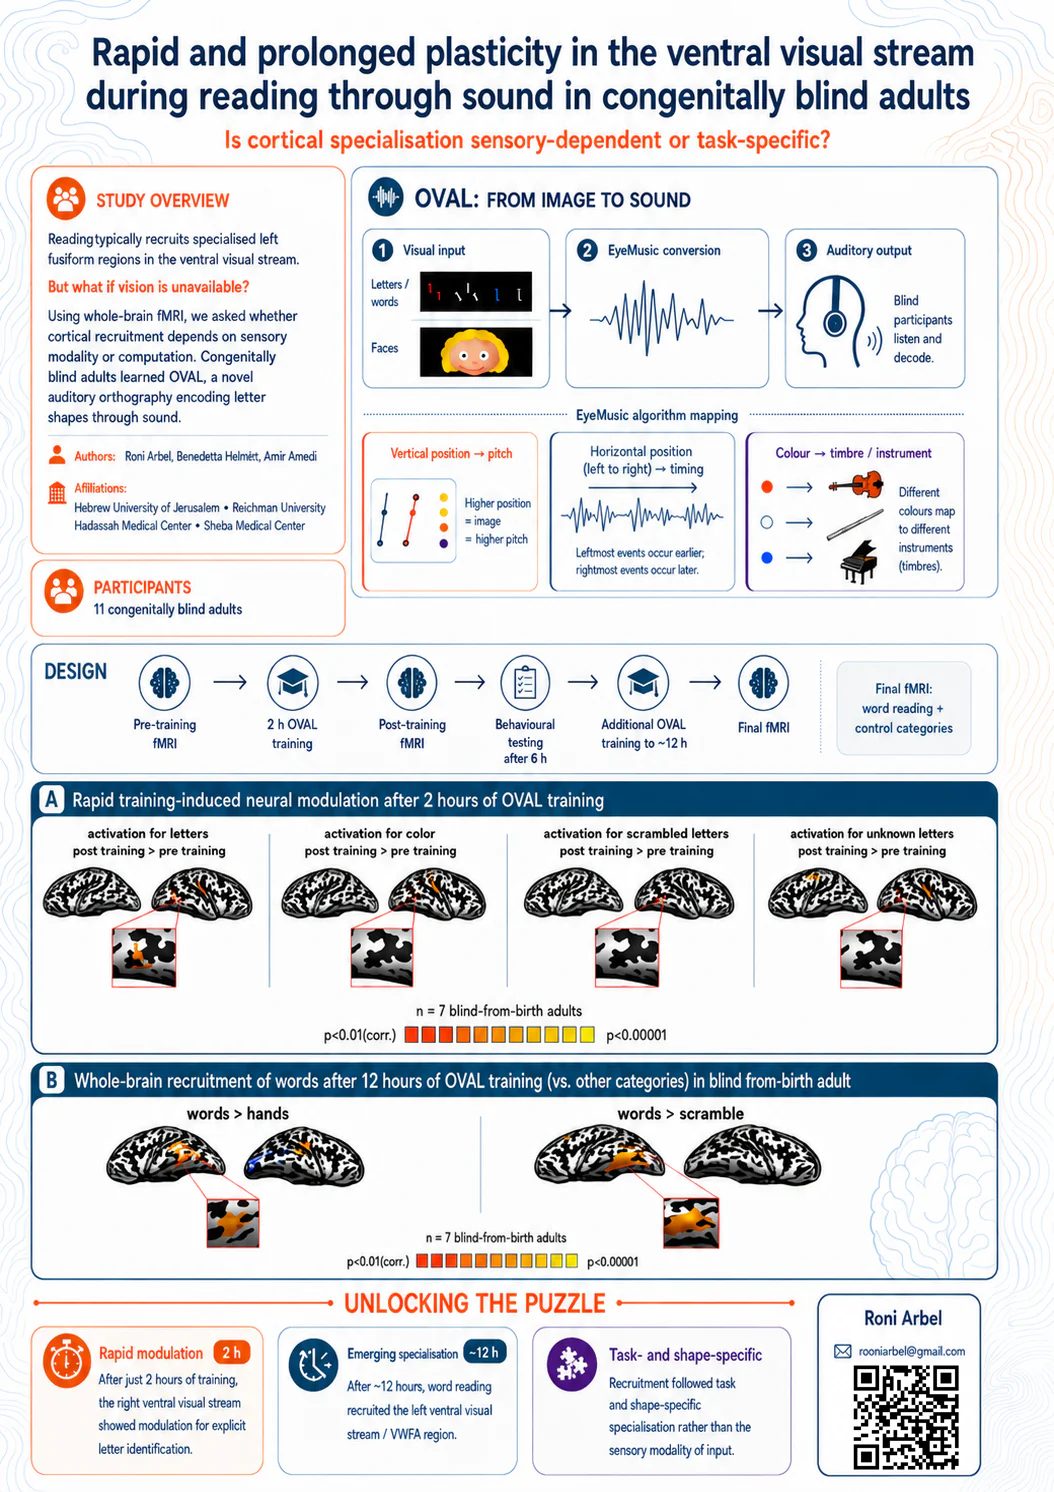
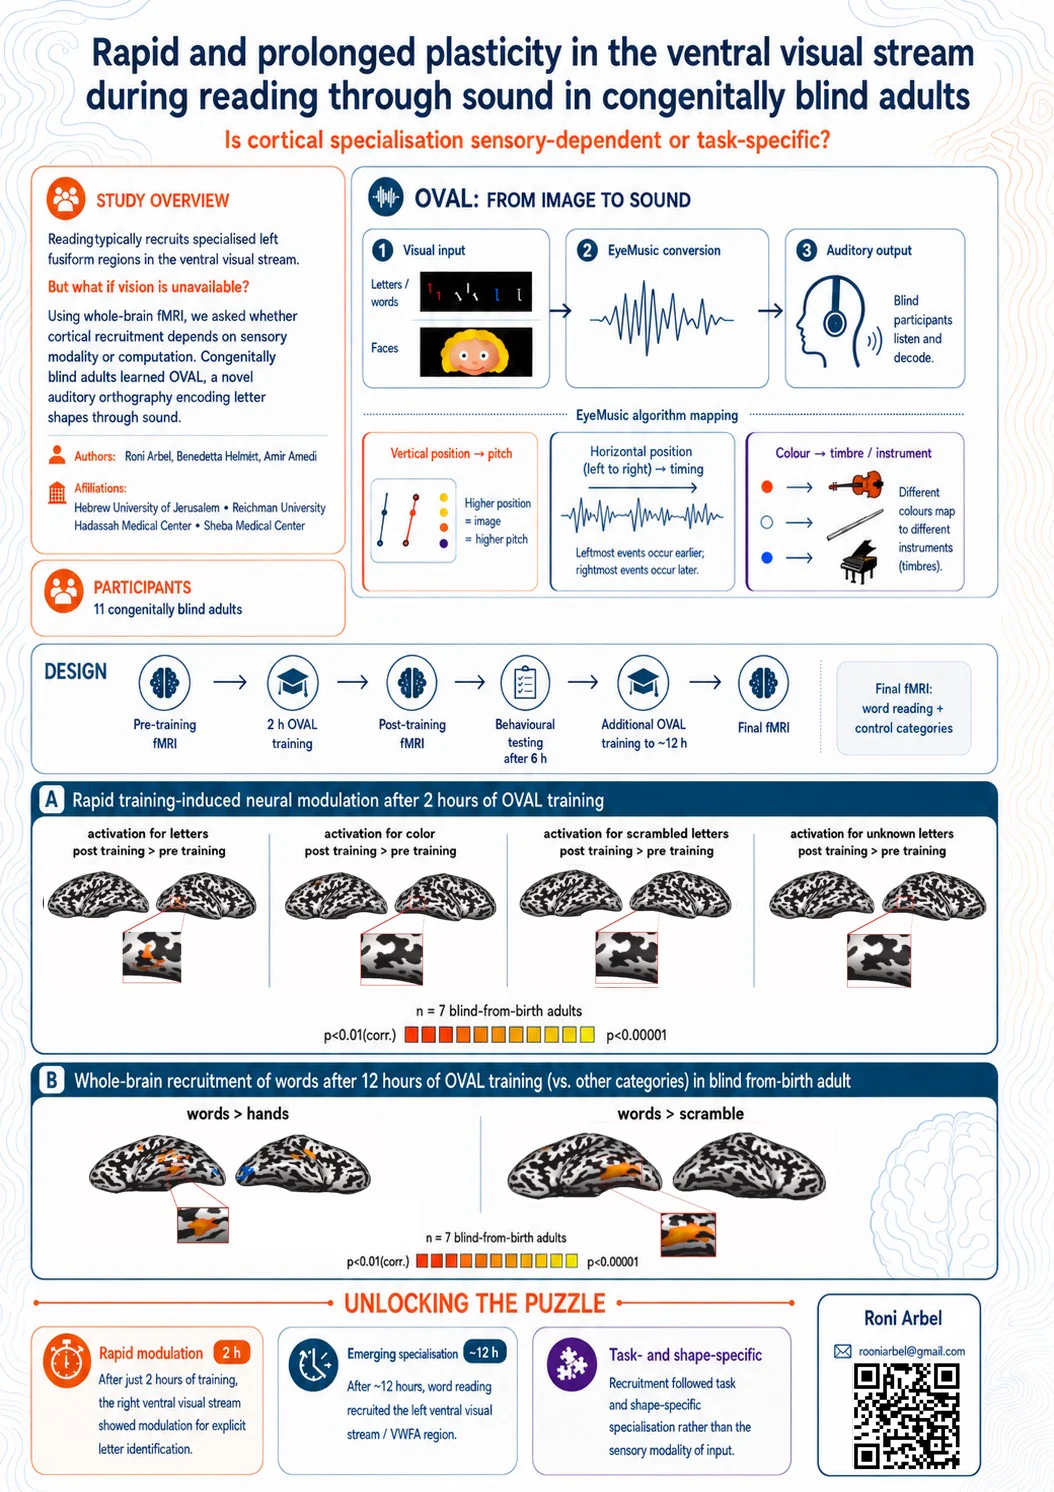
Update the ASDP poster to the latest figures
The brain renders in panels A and B are re-rendered; every line of text on the
poster, the participant counts and the conclusions are unchanged, so the page
around it still reads true.

The new export is a JPEG, so the full-size copy is served as one at 480KB
instead of re-encoding it into a 1.8MB PNG that could hold no more detail.

Drops the claim that the QR code carries contact details. It encodes a link to
the OVAL player, not an address.

diff --git a/asdp-2026/index.html b/asdp-2026/index.html
@@ -500,19 +500,18 @@
       taken two hours and twelve hours in.
     </p>
 
-    <a class="poster-frame reveal" href="asdp-2026-poster.png" target="_blank" rel="noopener"
+    <a class="poster-frame reveal" href="asdp-2026-poster.jpg" target="_blank" rel="noopener"
        aria-label="Open the full-size poster in a new tab">
       <img src="poster.webp" width="1054" height="1492" decoding="async"
         alt="Conference poster titled Rapid and prolonged plasticity in the ventral visual stream during reading through sound in congenitally blind adults. Panels cover the study overview, the OVAL image-to-sound conversion and EyeMusic mapping of vertical position to pitch, horizontal position to time and colour to instrument, the training and fMRI design, brain activation maps after two hours and after twelve hours of training, and three conclusions." />
     </a>
 
     <p class="poster-caption reveal">
-      Arbel R, Heimler B, Amedi A. Presented at ASDP 2026, Melbourne. The QR code on the poster
-      points to Roni's contact details.
+      Arbel R, Heimler B, Amedi A. Presented at ASDP 2026, Melbourne.
     </p>
 
     <div class="poster-actions reveal">
-      <a class="btn btn-primary" href="asdp-2026-poster.png" target="_blank" rel="noopener">Open full size</a>
+      <a class="btn btn-primary" href="asdp-2026-poster.jpg" target="_blank" rel="noopener">Open full size</a>
       <a class="btn btn-ghost" href="../oval/">Hear the OVAL alphabet</a>
     </div>
   </div>
